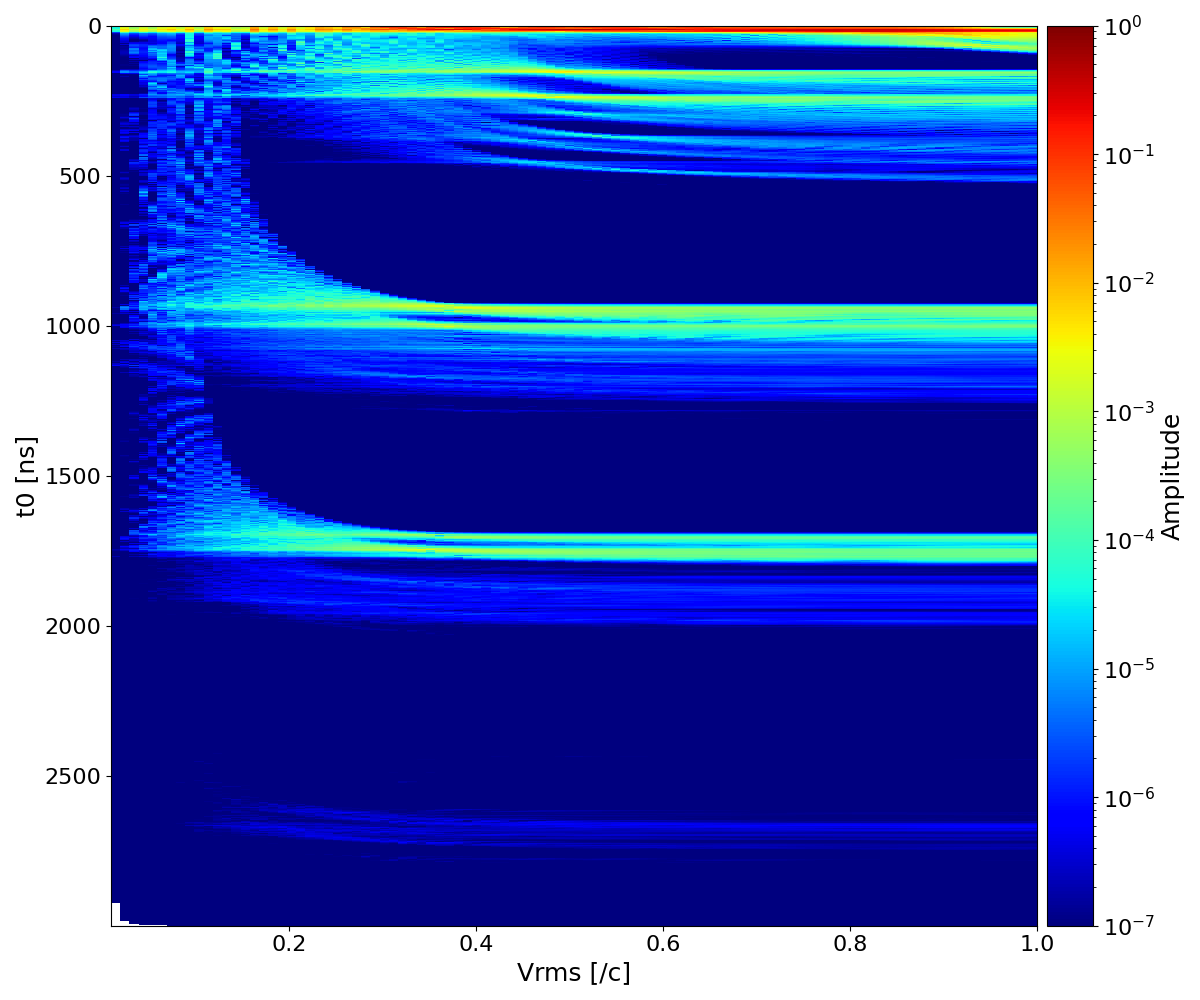
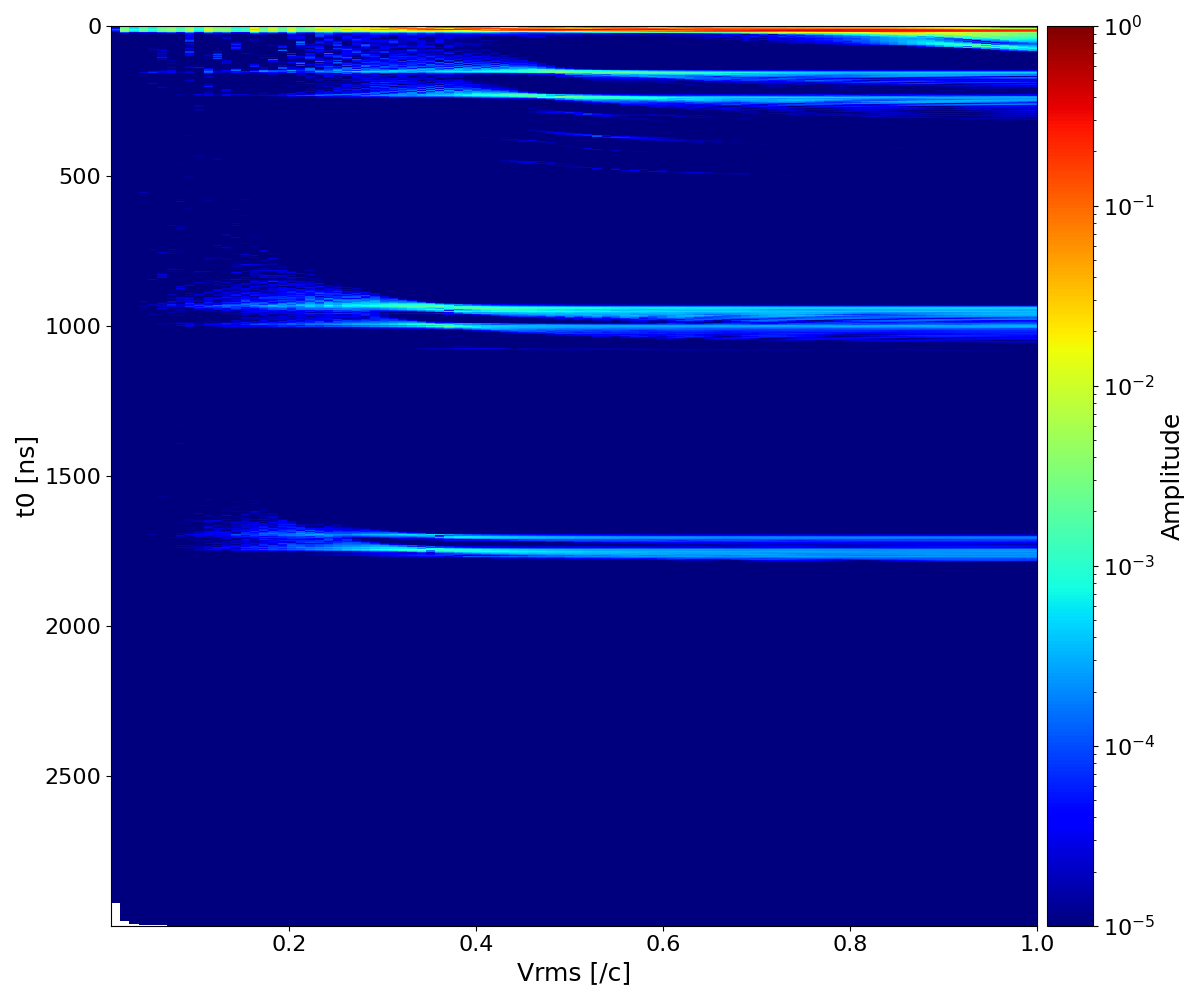
change color range

diff --git a/tools/estimate_Vrms_CMP.py b/tools/estimate_Vrms_CMP.py
@@ -115,7 +115,7 @@ fontsize_small = 16
 plt.imshow(corr_map,
             cmap = 'jet', aspect='auto',interpolation='nearest',
             extent=[Vrms_array_percent[0], Vrms_array_percent[-1], t0_array_ns[-1], t0_array_ns[0]],
-            norm = colors.LogNorm(vmin=1e-7, vmax=1)
+            norm = colors.LogNorm(vmin=1e-5, vmax=1)
             )
 
 
